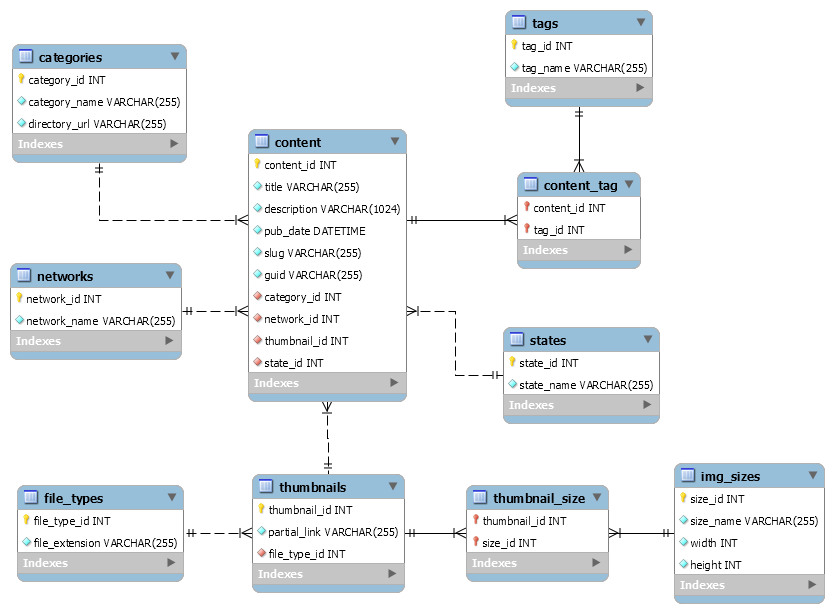
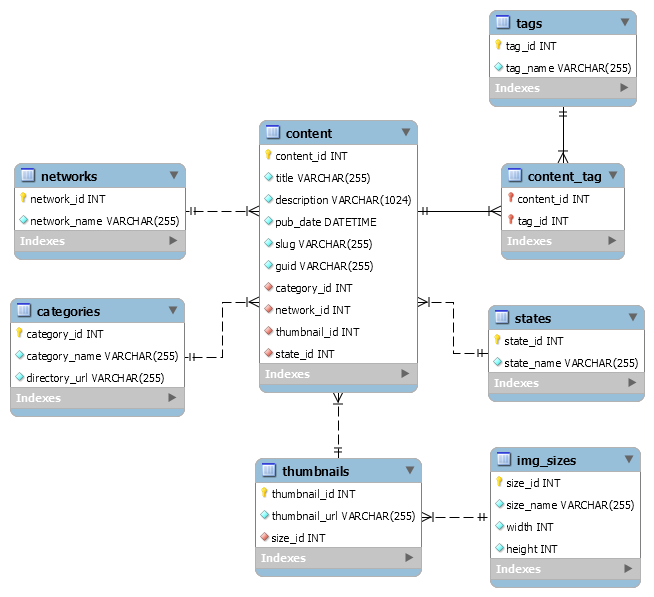
Update database design
Update table creation script and diagram

diff --git a/RssLoader/create_tables.php b/RssLoader/create_tables.php
@@ -21,12 +21,10 @@ if (!$conn) {
 }
 
 mysqli_query($conn, "DROP TABLE IF EXISTS content_tag;");
-mysqli_query($conn, "DROP TABLE IF EXISTS thumbnail_size;");
 mysqli_query($conn, "DROP TABLE IF EXISTS tags;");
-mysqli_query($conn, "DROP TABLE IF EXISTS img_sizes;");
 mysqli_query($conn, "DROP TABLE IF EXISTS content;");
 mysqli_query($conn, "DROP TABLE IF EXISTS thumbnails;");
-mysqli_query($conn, "DROP TABLE IF EXISTS file_types;");
+mysqli_query($conn, "DROP TABLE IF EXISTS img_sizes;");
 mysqli_query($conn, "DROP TABLE IF EXISTS states;");
 mysqli_query($conn, "DROP TABLE IF EXISTS networks;");
 mysqli_query($conn, "DROP TABLE IF EXISTS categories;");
@@ -55,9 +53,9 @@ if (mysqli_query($conn, $querymsg) === true) {
 }
 
 $querymsg = "CREATE TABLE states(
-            state_id INT PRIMARY KEY AUTO_INCREMENT NOT NULL,
-            state_name VARCHAR(255) UNIQUE NOT NULL
-            );";
+             state_id INT PRIMARY KEY AUTO_INCREMENT NOT NULL,
+             state_name VARCHAR(255) UNIQUE NOT NULL
+             );";
 
 if (mysqli_query($conn, $querymsg) === true) {
 echo "Table 'states' created successfully\n";
@@ -65,23 +63,25 @@ echo "Table 'states' created successfully\n";
 echo "Error creating table: " . mysqli_error($conn) . "\n";
 }
 
-$querymsg = "CREATE TABLE file_types(
-            file_type_id INT PRIMARY KEY AUTO_INCREMENT NOT NULL,
-            file_extension VARCHAR(255) UNIQUE NOT NULL
-            );";
+$querymsg = "CREATE TABLE img_sizes(
+             size_id INT PRIMARY KEY AUTO_INCREMENT NOT NULL,
+             size_name VARCHAR(255) UNIQUE NOT NULL,
+             width INT NOT NULL,
+             height INT NOT NULL
+             );";
 
 if (mysqli_query($conn, $querymsg) === true) {
-echo "Table 'file_types' created successfully\n";
+echo "Table 'img_sizes' created successfully\n";
 } else {
 echo "Error creating table: " . mysqli_error($conn) . "\n";
 }
 
 $querymsg = "CREATE TABLE thumbnails(
-            thumbnail_id INT PRIMARY KEY AUTO_INCREMENT NOT NULL,
-            partial_link VARCHAR(255) UNIQUE NOT NULL,
-            file_type_id INT NOT NULL,
-            FOREIGN KEY (file_type_id) REFERENCES file_types(file_type_id)
-            );";
+             thumbnail_id INT PRIMARY KEY AUTO_INCREMENT NOT NULL,
+             thumbnail_url VARCHAR(255) UNIQUE NOT NULL,
+             size_id INT NOT NULL,
+             FOREIGN KEY (size_id) REFERENCES img_sizes(size_id)
+             );";
 
 if (mysqli_query($conn, $querymsg) === true) {
 echo "Table 'thumbnails' created successfully\n";
@@ -112,23 +112,10 @@ if (mysqli_query($conn, $querymsg) === true) {
     echo "Error creating table: " . mysqli_error($conn) . "\n";
 }
 
-$querymsg = "CREATE TABLE img_sizes(
-    size_id INT PRIMARY KEY AUTO_INCREMENT NOT NULL,
-    size_name VARCHAR(255) UNIQUE NOT NULL,
-    width INT NOT NULL,
-    height INT NOT NULL
-    );";
-
-if (mysqli_query($conn, $querymsg) === true) {
-echo "Table 'img_sizes' created successfully\n";
-} else {
-echo "Error creating table: " . mysqli_error($conn) . "\n";
-}
-
 $querymsg = "CREATE TABLE tags(
-    tag_id INT PRIMARY KEY AUTO_INCREMENT NOT NULL,
-    tag_name VARCHAR(255) UNIQUE NOT NULL
-    );";
+             tag_id INT PRIMARY KEY AUTO_INCREMENT NOT NULL,
+             tag_name VARCHAR(255) UNIQUE NOT NULL
+             );";
 
 if (mysqli_query($conn, $querymsg) === true) {
 echo "Table 'tags' created successfully\n";
@@ -136,27 +123,13 @@ echo "Table 'tags' created successfully\n";
 echo "Error creating table: " . mysqli_error($conn) . "\n";
 }
 
-$querymsg = "CREATE TABLE thumbnail_size(
-    thumbnail_id INT NOT NULL,
-    size_id INT NOT NULL,
-    PRIMARY KEY (thumbnail_id, size_id),
-    FOREIGN KEY (thumbnail_id) REFERENCES thumbnails(thumbnail_id),
-    FOREIGN KEY (size_id) REFERENCES img_sizes(size_id)
-    );";
-
-if (mysqli_query($conn, $querymsg) === true) {
-echo "Table 'thumbnail_size' created successfully\n";
-} else {
-echo "Error creating table: " . mysqli_error($conn) . "\n";
-}
-
 $querymsg = "CREATE TABLE content_tag(
-    content_id INT NOT NULL,
-    tag_id INT NOT NULL,
-    PRIMARY KEY (content_id, tag_id),
-    FOREIGN KEY (content_id) REFERENCES content(content_id),
-    FOREIGN KEY (tag_id) REFERENCES tags(tag_id)
-    );";
+             content_id INT NOT NULL,
+             tag_id INT NOT NULL,
+             PRIMARY KEY (content_id, tag_id),
+             FOREIGN KEY (content_id) REFERENCES content(content_id),
+             FOREIGN KEY (tag_id) REFERENCES tags(tag_id)
+             );";
 
 if (mysqli_query($conn, $querymsg) === true) {
 echo "Table 'content_tag' created successfully\n";
